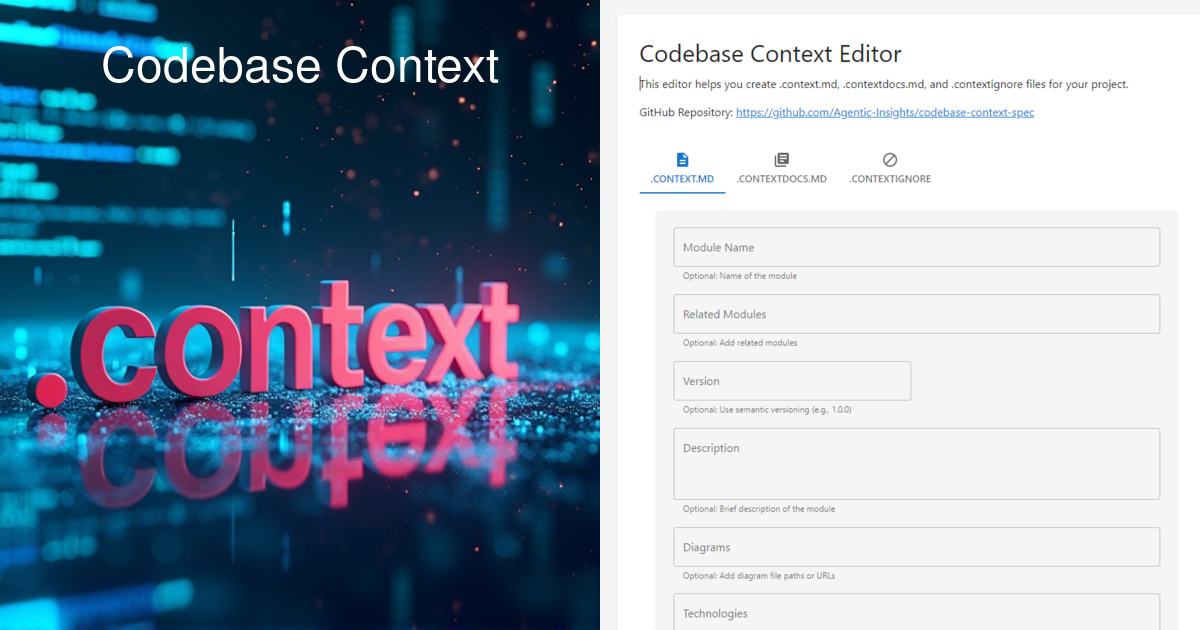
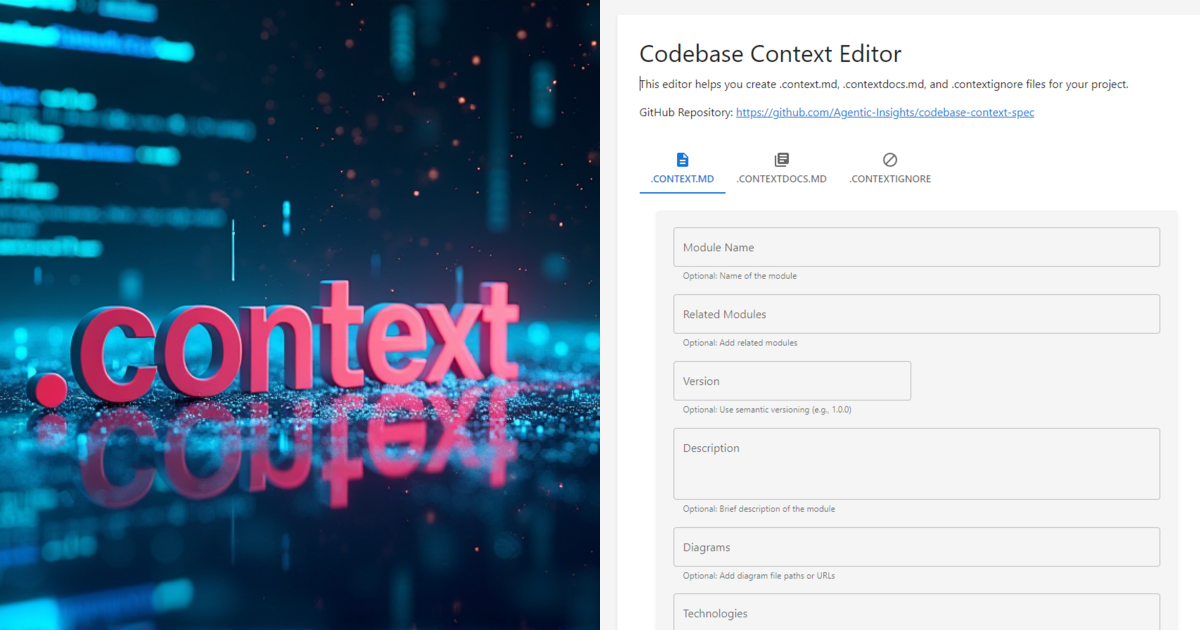
docs: fix the extra annotation on og image

Changed region(s): [[0.0617, 0.0603, 0.4317, 0.1508]]

diff --git a/.context.md b/.context.md
@@ -22,7 +22,7 @@ architecture:
   components:
     - Specification document
     - Linters
-    - Examples
+    - context editor
   data-flow: 
     - Codebase -> .context.md files -> Linters -> Validation results
 development:
